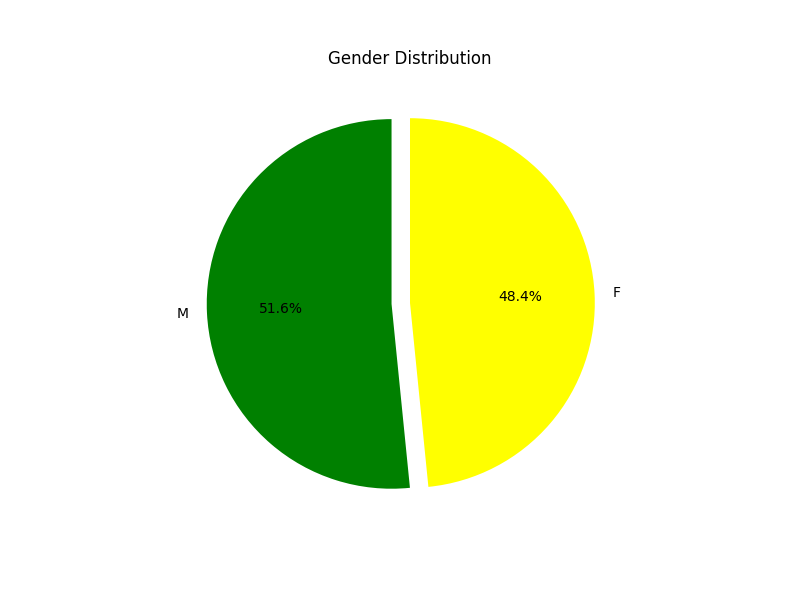
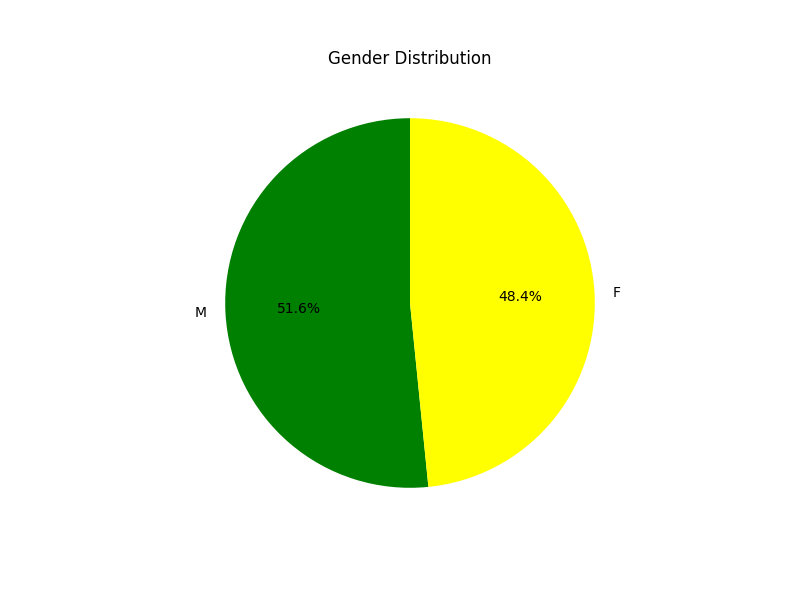
DS Project

Changed region(s): [[0.4375, 0.18, 0.5625, 0.84], [0.2188, 0.21, 0.4688, 0.81], [0.3125, 0.51, 0.4062, 0.54]]

diff --git a/DS Project task.py b/DS Project task.py
@@ -14,6 +14,7 @@ class DataPreprocessor:
     def duplicate(self):
         print("Duplicate")
         print(df.columns.duplicated())
+
     def Datatype(self):
         print("Dtype")
         for i in df.columns:
@@ -68,7 +69,7 @@ class DataVisualizer:
         gender_counts = df['Customer_Gender'].value_counts()
 
         plt.figure(figsize=(8,6))
-        gender_counts.plot(kind='pie', autopct='%1.1f%%', colors=['green', 'yellow'], startangle= 90, explode=(0.1, 0))
+        gender_counts.plot(kind='pie',autopct='%1.1f%%', colors=['green', 'yellow'], startangle= 90)
         plt.title('Gender Distribution')
         plt.ylabel("")
         plt.savefig(output_file)
